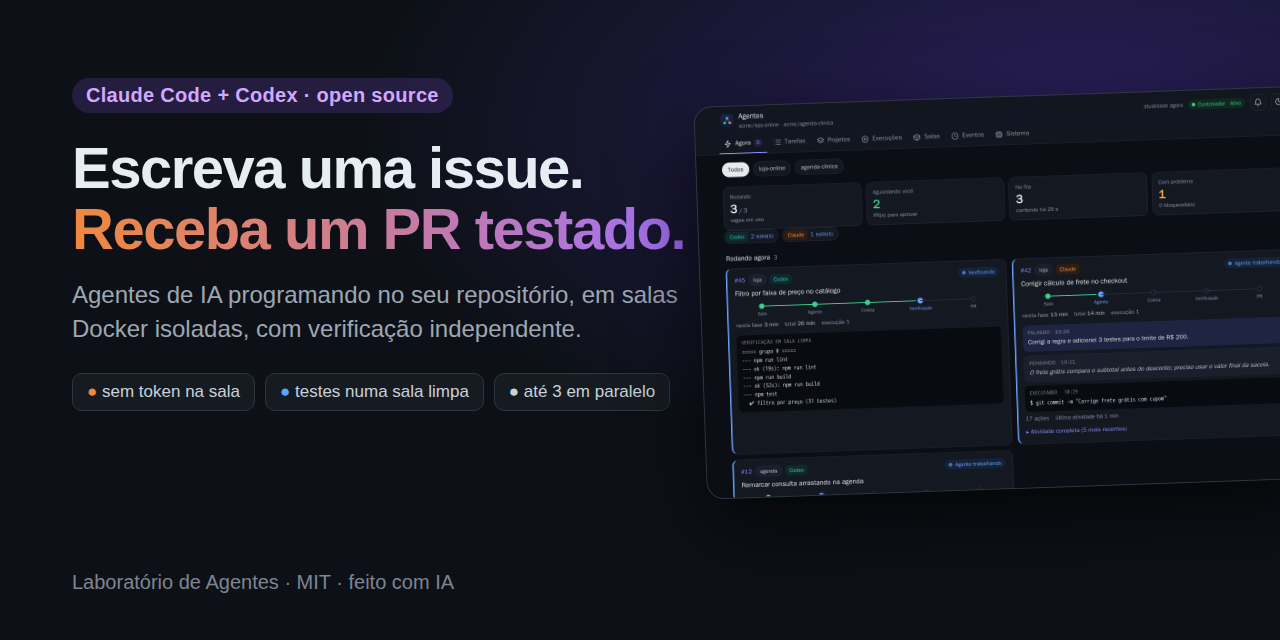
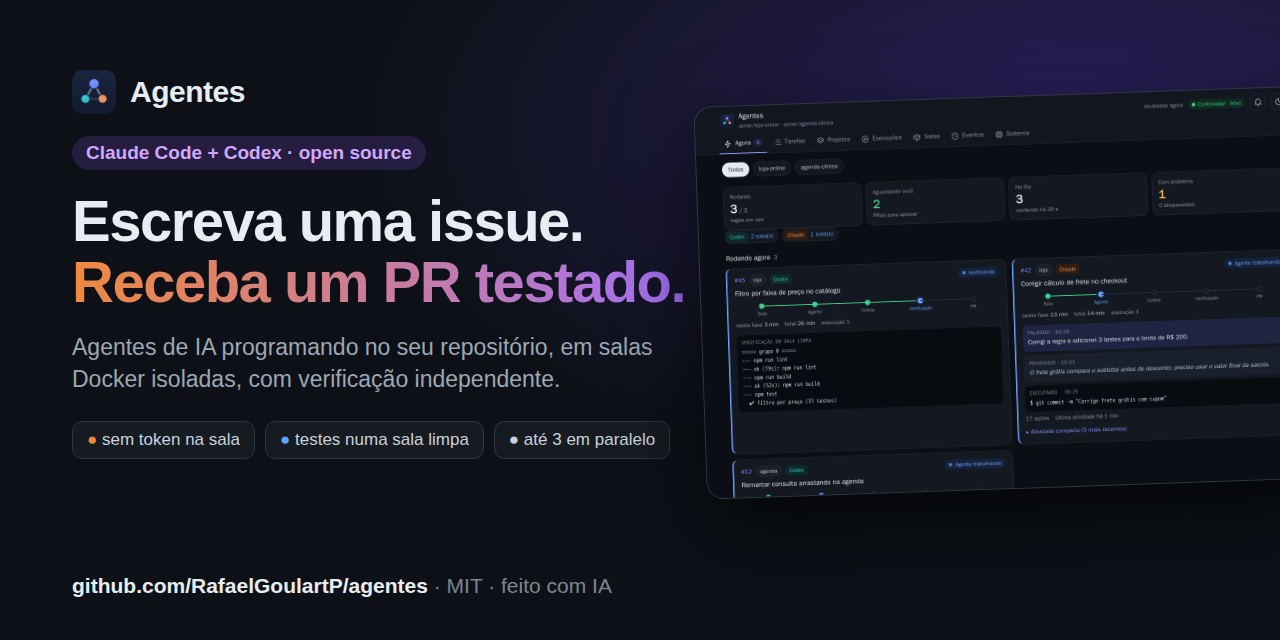
Nome do projeto: Agentes (repositório, documentação e imagem de compartilhamento)

diff --git a/README.md b/README.md
@@ -1,4 +1,4 @@
-<h1 align="center">Laboratório de Agentes</h1>
+<h1 align="center">Agentes</h1>
 
 <p align="center">
   <b>Escreva uma issue. Receba um pull request testado.</b><br>
@@ -6,7 +6,7 @@
 </p>
 
 <p align="center">
-  <a href="https://github.com/RafaelGoulartP/agents-publico/actions/workflows/testes.yml"><img src="https://github.com/RafaelGoulartP/agents-publico/actions/workflows/testes.yml/badge.svg" alt="testes"></a>
+  <a href="https://github.com/RafaelGoulartP/agentes/actions/workflows/testes.yml"><img src="https://github.com/RafaelGoulartP/agentes/actions/workflows/testes.yml/badge.svg" alt="testes"></a>
   <a href="LICENSE"><img src="https://img.shields.io/badge/licen%C3%A7a-MIT-blue" alt="Licença MIT"></a>
   <img src="https://img.shields.io/badge/node-%E2%89%A522-339933?logo=node.js&logoColor=white" alt="Node 22+">
   <img src="https://img.shields.io/badge/depend%C3%AAncias%20npm-0-brightgreen" alt="zero dependências npm">
@@ -46,7 +46,7 @@
 
 ## Por que é diferente
 
-| | Agente no seu terminal | Laboratório de Agentes |
+| | Agente no seu terminal | Agentes |
 |---|---|---|
 | Quantas tarefas ao mesmo tempo | uma, com você olhando | até 3, sozinhas, a partir da fila de issues |
 | Onde o agente roda | na sua máquina, com seus arquivos e tokens | numa sala Docker descartável, sem token do GitHub |
@@ -108,8 +108,8 @@ O passo a passo completo, do zero, está em **[docs/INSTALACAO.md](docs/INSTALAC
 Resumo para quem já tem Docker e Node:
 
 ```bash
-git clone https://github.com/RafaelGoulartP/agents-publico.git ~/laboratorio-agentes
-cd ~/laboratorio-agentes
+git clone https://github.com/RafaelGoulartP/agentes.git ~/agentes
+cd ~/agentes
 ./scripts/instalar.sh            # confere tudo, cria os arquivos locais e roda os testes
 nano secrets/github-controller.env   # cole o token do GitHub em GH_TOKEN=
 ./scripts/install-user-service.sh --ativar   # liga painel e orquestrador (systemd)
@@ -242,7 +242,7 @@ e do [SWE-agent](https://github.com/SWE-agent/SWE-agent). Lista completa, com li
 ## Contribua
 
 Achou um problema, instalou num sistema diferente ou tem uma ideia? Abra uma
-[issue](https://github.com/RafaelGoulartP/agents-publico/issues) ou um PR (veja [CONTRIBUTING.md](CONTRIBUTING.md)).
+[issue](https://github.com/RafaelGoulartP/agentes/issues) ou um PR (veja [CONTRIBUTING.md](CONTRIBUTING.md)).
 Se o projeto te ajudou, deixe uma ⭐: isso ajuda outras pessoas a encontrá-lo.
 
 ## Licença

diff --git a/README.en.md b/README.en.md
@@ -1,12 +1,13 @@
-<h1 align="center">Agents Lab (Laboratório de Agentes)</h1>
+<h1 align="center">Agentes</h1>
 
 <p align="center">
+  <i>(“agents” in Portuguese) an AI agents lab for your GitHub repositories</i><br>
   <b>Write an issue. Get a tested pull request.</b><br>
   Claude Code and Codex working as developers on your GitHub repo, on your own machine, inside isolated Docker rooms.
 </p>
 
 <p align="center">
-  <a href="https://github.com/RafaelGoulartP/agents-publico/actions/workflows/testes.yml"><img src="https://github.com/RafaelGoulartP/agents-publico/actions/workflows/testes.yml/badge.svg" alt="tests"></a>
+  <a href="https://github.com/RafaelGoulartP/agentes/actions/workflows/testes.yml"><img src="https://github.com/RafaelGoulartP/agentes/actions/workflows/testes.yml/badge.svg" alt="tests"></a>
   <a href="LICENSE"><img src="https://img.shields.io/badge/license-MIT-blue" alt="MIT license"></a>
   <img src="https://img.shields.io/badge/node-%E2%89%A522-339933?logo=node.js&logoColor=white" alt="Node 22+">
   <img src="https://img.shields.io/badge/npm%20dependencies-0-brightgreen" alt="zero npm dependencies">
@@ -41,7 +42,7 @@
 
 ## Why it's different
 
-| | Agent in your terminal | Agents Lab |
+| | Agent in your terminal | Agentes |
 |---|---|---|
 | Tasks at once | one, while you watch | up to 3, unattended, from the issue queue |
 | Where the agent runs | your machine, your files, your tokens | a disposable Docker room, no GitHub token |
@@ -71,8 +72,8 @@
 Requirements: Linux or Windows 10/11 with WSL2, Docker, Node.js 22+, and a Claude and/or Codex login.
 
 ```bash
-git clone https://github.com/RafaelGoulartP/agents-publico.git ~/laboratorio-agentes
-cd ~/laboratorio-agentes
+git clone https://github.com/RafaelGoulartP/agentes.git ~/agentes
+cd ~/agentes
 ./scripts/instalar.sh                      # checks everything, creates local files, runs the tests
 nano secrets/github-controller.env         # paste a fine-grained GitHub token into GH_TOKEN=
 ./scripts/install-user-service.sh --ativar # starts the dashboard and the orchestrator (systemd)

diff --git a/AGENTS.md b/AGENTS.md
@@ -42,7 +42,7 @@ Monte um resumo para a pessoa: sistema, o que já existe, o que falta e quanta m
 | Situação | Ação |
 |---|---|
 | Windows sem WSL | Você não consegue instalar o WSL de dentro do Linux. Passe à pessoa o passo "Windows" de `docs/INSTALACAO.md` e espere. |
-| Pasta em `/mnt/c/...` | Proponha clonar de novo em `~/laboratorio-agentes`. Em `/mnt/c` os scripts quebram (CRLF) e o modo 600 dos segredos não vale. |
+| Pasta em `/mnt/c/...` | Proponha clonar de novo em `~/agentes`. Em `/mnt/c` os scripts quebram (CRLF) e o modo 600 dos segredos não vale. |
 | Sem Docker ou sem acesso ao daemon | Linux: proponha `curl -fsSL https://get.docker.com \| sh` e `usermod -aG docker`. WSL: a pessoa precisa abrir o Docker Desktop e ativar a integração com a distribuição. |
 | Node < 22 ou ausente | Proponha nvm + `nvm install 24` (sem sudo). |
 | Sem systemd no WSL | Proponha `[boot] systemd=true` em `/etc/wsl.conf` e `wsl --shutdown` (a pessoa roda o último no Windows). |
@@ -52,7 +52,7 @@ Monte um resumo para a pessoa: sistema, o que já existe, o que falta e quanta m
 ### 2. Instalar
 
 ```bash
-cd ~/laboratorio-agentes
+cd ~/agentes
 ./scripts/instalar.sh
 ```
 
@@ -110,7 +110,7 @@ Para escrever um bom `.laboratorio.json`:
 6. `proibido.dominios`: pergunte à pessoa o domínio de produção dela e inclua. Pergunte também por
    pastas e scripts que nunca devem ser executados (deploy, migração de produção).
 7. `previa`: os passos para subir o app com dados falsos, escutando em `0.0.0.0`.
-8. Valide a partir da raiz do projeto: `node ~/laboratorio-agentes/scripts/validar-config.mjs`
+8. Valide a partir da raiz do projeto: `node ~/agentes/scripts/validar-config.mjs`
    (imprime `Configuração válida.` ou o campo com problema).
 
 Outras adaptações comuns, sempre com confirmação:

diff --git a/docs/INSTALACAO.md b/docs/INSTALACAO.md
@@ -141,7 +141,7 @@ Para dividir o trabalho entre duas assinaturas, aponte as variáveis com sufixo 
 O controlador usa **um** token para ler issues, fazer push das branches e abrir PRs. Os agentes nunca o recebem.
 
 1. Abra https://github.com/settings/personal-access-tokens/new (token *fine-grained*).
-2. **Token name:** `laboratorio-agentes`. **Expiration:** a que preferir (anote para renovar).
+2. **Token name:** `agentes`. **Expiration:** a que preferir (anote para renovar).
 3. **Resource owner:** você (ou a organização dona dos repositórios).
 4. **Repository access:** *Only select repositories* → escolha os repositórios que o laboratório vai atender.
 5. **Permissions → Repository permissions:**
@@ -162,8 +162,8 @@ e inclua o repositório. Não é preciso trocar o token.
 
 ```bash
 cd ~
-git clone https://github.com/RafaelGoulartP/agents-publico.git laboratorio-agentes
-cd laboratorio-agentes
+git clone https://github.com/RafaelGoulartP/agentes.git
+cd agentes
 ./scripts/instalar.sh
 ```
 
@@ -249,7 +249,7 @@ o [Tailscale](https://tailscale.com) (VPN gratuita para uso pessoal):
 ## Atualizar
 
 ```bash
-cd ~/laboratorio-agentes
+cd ~/agentes
 git pull
 ./scripts/instalar.sh              # confere e roda os testes de novo
 systemctl --user restart laboratorio-painel laboratorio-orquestrador
@@ -265,7 +265,7 @@ systemctl --user disable --now laboratorio-painel laboratorio-orquestrador
 rm ~/.config/systemd/user/laboratorio-{painel,orquestrador}.service
 docker ps -aq --filter label=lab.room | xargs -r docker rm -f -v
 docker images --format '{{.Repository}}:{{.Tag}}' | grep -E '^(sala-|laboratorio-proxy)' | xargs -r docker rmi
-rm -rf ~/laboratorio-agentes
+rm -rf ~/agentes
 ```
 
 Revogue também o token em https://github.com/settings/personal-access-tokens.

diff --git a/docs/PREPARAR-PROJETO.md b/docs/PREPARAR-PROJETO.md
@@ -38,7 +38,7 @@ PR com o arquivo (e um `AGENTS.md`, se faltar). Antes do merge, confira:
 - [ ] `previa` sobe o app com dados de teste (se quiser testar PRs pelo painel antes do merge).
 
 Para escrever à mão, veja a referência em [CONFIGURACAO.md](CONFIGURACAO.md#laboratoriojson-no-seu-projeto).
-Para conferir o arquivo, rode na raiz do projeto: `node ~/laboratorio-agentes/scripts/validar-config.mjs`.
+Para conferir o arquivo, rode na raiz do projeto: `node ~/agentes/scripts/validar-config.mjs`.
 
 > Se o projeto ainda não tem testes, comece por aí: abra uma issue pedindo ao agente que crie testes
 > básicos e um comando `npm test` (ou equivalente). Sem verificação, o laboratório não tem como

diff --git a/CONTRIBUTING.md b/CONTRIBUTING.md
@@ -11,8 +11,8 @@ Obrigado pelo interesse! Issues e pull requests são bem-vindos, em português o
 ## Ambiente
 
 ```bash
-git clone https://github.com/RafaelGoulartP/agents-publico.git laboratorio-agentes
-cd laboratorio-agentes/orchestrator
+git clone https://github.com/RafaelGoulartP/agentes.git
+cd agentes/orchestrator
 npm test        # Node 22+, sem npm install
 ```
 
